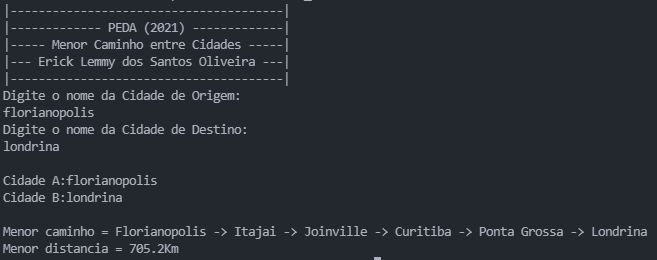
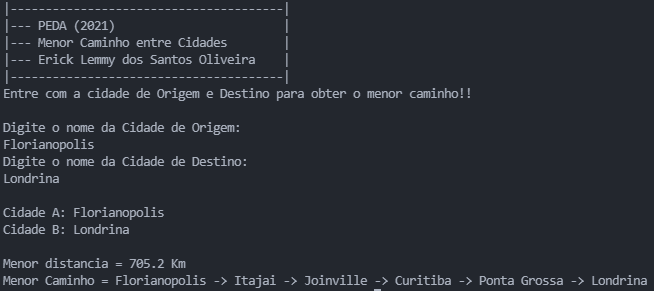
atualização interface e logica do caminho

Changed region(s): [[0.0, 0.0, 0.7339, 0.6462], [0.0, 0.8615, 1.0, 1.0], [0.0, 0.6769, 0.2446, 0.8308]]

diff --git a/Mapa.cpp b/Mapa.cpp
@@ -82,24 +82,24 @@ float Mapa::peso(int corrente, int i) const {
     else return INFINITO;
 };
 
-void Mapa::imprimeCaminho(std::vector<TipoDado> caminho, int corrente) const {  
-    cout << "Menor caminho = ";
-    cout << caminho[0] << " -> ";
-    for (int i = caminho.size() - 1; i > 0; i--) 
+void Mapa::imprimeCaminho(std::vector<TipoDado> caminho) const {  
+    cout << "Menor Caminho = ";
+    for (size_t i = caminho.size() - 1; i > 0; i--) 
         cout << caminho[i] << " -> ";
     
-    cout << Cidades[corrente];
-    cout << "\nMenor distancia = ";
+    cout << caminho[0];
 };
 
 void Mapa::MenorCaminho(TipoDado CidadeOrigem, TipoDado cidadeDestino) {
     int posCidadeOrigem = posCidade(CidadeOrigem);
     int posCidadeDestino = posCidade(cidadeDestino);
-    int precede[numNos] = {posCidadeOrigem};
+    int precede[numNos];
 
-    if(posCidadeOrigem != INFINITO && posCidadeDestino != INFINITO)
-        cout << MenorCaminho(posCidadeOrigem, posCidadeDestino, precede) << "Km" << endl;
-    else cerr << "Cidade nao Encontrada!!" << endl;
+    if(posCidadeOrigem != INFINITO && posCidadeDestino != INFINITO) {
+        cout << "Menor distancia = ";
+        cout << MenorCaminho(posCidadeOrigem, posCidadeDestino, precede) << " Km" << endl;
+        imprimeCaminho(caminho);
+    } else cerr << "Cidade nao Encontrada!!" << endl;
 };
 
 // algoritmo de Dijkstra do menor caminho
@@ -137,15 +137,14 @@ float Mapa::MenorCaminho(int cidadeOrigem, int cidadeDestino, int precede[]) {
         calculado[corrente] = true;
     }
 
-    TipoDado cidadeAtual = Cidades[cidadeOrigem];
+    TipoDado cidadeAtual = Cidades[cidadeDestino];
     int cidadeInicial = posCidade(Cidades[corrente]);
     do {
         caminho.push_back(cidadeAtual);
         cidadeAtual = Cidades[precede[cidadeInicial]];
         cidadeInicial = posCidade(cidadeAtual);
     } while (cidadeAtual != Cidades[cidadeOrigem]);
-
-    imprimeCaminho(caminho, corrente);
+    caminho.push_back(cidadeAtual);
 
     return distancia[cidadeDestino];
 }

diff --git a/main.cpp b/main.cpp
@@ -18,14 +18,14 @@ void inicio();
 int main() {
     Mapa m;
     string cidadeA, cidadeB;
-    // adicionaCidade(m);
-    adicionaCidadebyTxt(m, "cidades");
+    // adicionaCidadebyTxt(m, "cidades");
+    adicionaCidade(m);
     uneCidade(m);
 
     // visualizar matriz de adjacentes
-    m.imprime(); 
+    // m.imprime(); 
     inicio();
-    
+
     cout << "Digite o nome da Cidade de Origem: " << endl;
     getline(cin, cidadeA);
     cout << "Digite o nome da Cidade de Destino: " << endl;
@@ -38,10 +38,11 @@ int main() {
 
 void inicio() {
     cout << "|---------------------------------------|" << endl;
-    cout << "|------------- PEDA (2021) -------------|" << endl;
-    cout << "|----- Menor Caminho entre Cidades -----|" << endl;
-    cout << "|--- Erick Lemmy dos Santos Oliveira ---|" << endl;
+    cout << "|--- PEDA (2021)                        |" << endl;
+    cout << "|--- Menor Caminho entre Cidades        |" << endl;
+    cout << "|--- Erick Lemmy dos Santos Oliveira    |" << endl;
     cout << "|---------------------------------------|" << endl;
+    cout << "Entre com a cidade de Origem e Destino para obter o menor caminho!!\n" << endl;
 }
 
 void adicionaCidadebyTxt(Mapa &m, string nomeArq) {

diff --git a/Mapa.h b/Mapa.h
@@ -27,6 +27,6 @@ class Mapa {
         bool validos(int a, int b) const;
         int posCidade(TipoDado cidade) const;
         float MenorCaminho(int corrente, int i, int precede[]);
-        void imprimeCaminho(std::vector<TipoDado> caminho, int corrente) const;
+        void imprimeCaminho(std::vector<TipoDado> caminho) const;
 };
 #endif // !MAPA_H
